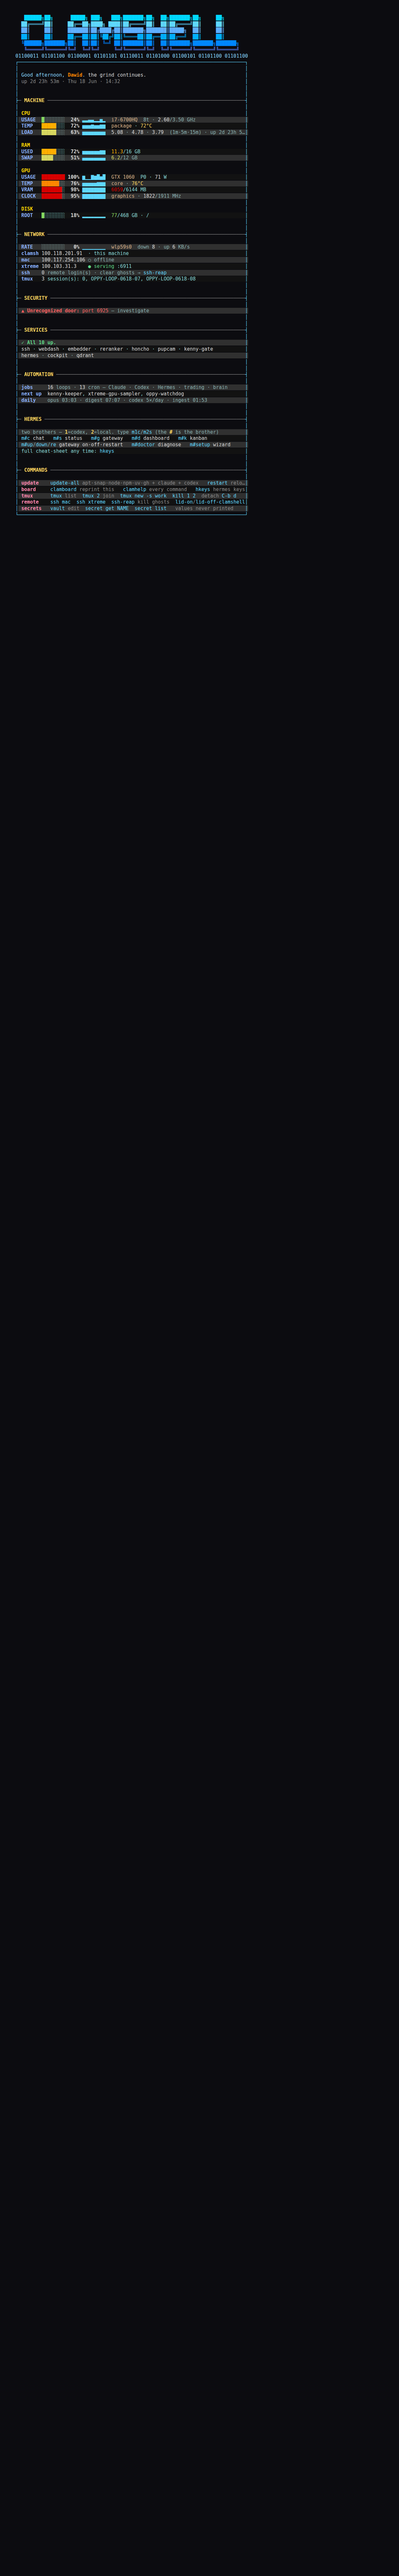
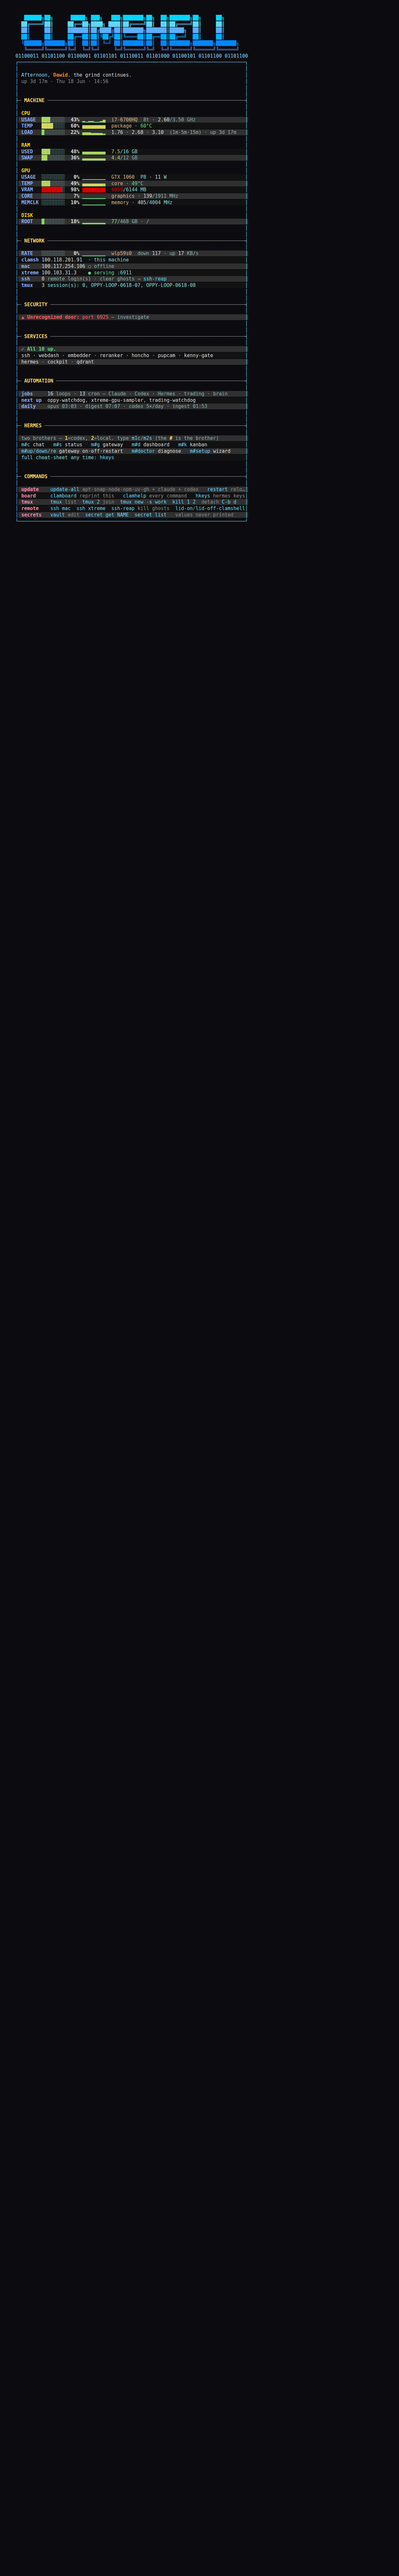
fix(board): color-reactive sparklines, restore MEMCLK, live CPU freq; strip OpenClaw from public docs
- Sparklines now colour each cell by its value (green→red), matching the gauge bars
  (e.g. VRAM 98% = red spark, TEMP = yellow). 'color reactive like the rest'.
- GPU group: restored MEMCLK (memory MHz) + renamed CLOCK→CORE; each clock has its own graph.
- CPU freq reads the fastest core live (/proc/cpuinfo, max) so it shows turbo under load
  instead of an averaged value pinned at base.
- Kept 'restart' in COMMANDS (reverted an incorrect removal).
- Public installer docs: removed OpenClaw (private/deleted internal tool); tests now assert
  it stays absent. 33/33 green.

Claude-Session: https://claude.ai/code/session_01XuLf9YjjGQLM4QD5J1HNDh

Changed region(s): [[0.0306, 0.0312, 0.6435, 0.2188]]

diff --git a/tests/test_agent_skill_artifact.py b/tests/test_agent_skill_artifact.py
@@ -26,7 +26,6 @@ class AgentSkillArtifactTests(unittest.TestCase):
             "custom commands",
             "default-deny",
             "Hermes",
-            "OpenClaw",
             "wb ports snapshot",
             "Run ./install.sh",
             "Run wb setup",
@@ -35,6 +34,8 @@ class AgentSkillArtifactTests(unittest.TestCase):
             "PYTHONDONTWRITEBYTECODE=1 python3 -m unittest discover -s tests -v",
         ):
             self.assertIn(required, skill)
+        # OpenClaw is a private/deleted internal tool — it must NOT ship in the public skill.
+        self.assertNotIn("OpenClaw", skill)
         self.assertIsNone(re.search(r"\b(claw" + r"ski|Da" + r"wid|192\.168\.|/home/claw" + r"ski)\b", skill))
 
 

diff --git a/tests/test_welcome_board_machine.py b/tests/test_welcome_board_machine.py
@@ -116,7 +116,7 @@ class MachineSectionTests(unittest.TestCase):
         # Each metric row carries an 8-cell █░ gauge bar followed by a percent.
         import re as _re
         bar_re = _re.compile(r"[█░]{8}\s+\d+%")
-        for label in ("USAGE", "TEMP", "LOAD", "USED", "SWAP", "VRAM", "CLOCK", "ROOT"):
+        for label in ("USAGE", "TEMP", "LOAD", "USED", "SWAP", "VRAM", "CORE", "MEMCLK", "ROOT"):
             # Rows look like:  │ LABEL  ████░░░░  NN%  <spark>  detail
             label_line = next(
                 (l for l in rendered.splitlines() if re.search(r"│ " + label + r"\b", l)),

diff --git a/tests/test_agent_prompt_docs.py b/tests/test_agent_prompt_docs.py
@@ -22,7 +22,8 @@ class AgentPromptDocsTests(unittest.TestCase):
         self.assertIn("custom commands", prompt)
         self.assertIn("default-deny", prompt)
         self.assertIn("Hermes", prompt)
-        self.assertIn("OpenClaw", prompt)
+        # OpenClaw is a private/deleted internal tool — must NOT appear in the public install prompt.
+        self.assertNotIn("OpenClaw", prompt)
         self.assertIn("wb ports snapshot", prompt)
         self.assertIn("wb setup", prompt)
         self.assertIn("render preview", prompt)

diff --git a/skills/welcome-board-installer/SKILL.md b/skills/welcome-board-installer/SKILL.md
@@ -1,6 +1,6 @@
 ---
 name: welcome-board-installer
-description: Install, customize, verify, or troubleshoot the Clamshell Welcome Board terminal startup project from a cloned repository. Use when a user asks an AI agent to install the welcome board, configure display name/banner/theme/sections, tmux reminders, custom commands, Hermes/OpenClaw personalization, port baselines, preview the render, run wb/welcomeboard commands, verify Linux/macOS readiness, or inspect the read-only port scan/explain/plan/snapshot helpers.
+description: Install, customize, verify, or troubleshoot the Clamshell Welcome Board terminal startup project from a cloned repository. Use when a user asks an AI agent to install the welcome board, configure display name/banner/theme/sections, tmux reminders, custom commands, Hermes personalization, port baselines, preview the render, run wb/welcomeboard commands, verify Linux/macOS readiness, or inspect the read-only port scan/explain/plan/snapshot helpers.
 ---
 
 # Welcome Board Installer
@@ -8,19 +8,18 @@ description: Install, customize, verify, or troubleshoot the Clamshell Welcome B
 ## Workflow
 
 1. Read README.md, docs/PORT_SECURITY_MODEL.md, docs/SECTION_SDK.md, and docs/LLM_EXTENSION_GUIDE.md before changing anything.
-2. Ask the user for display name, banner text, preferred theme, enabled sections, tmux workflow, custom commands, service ports, Hermes usage, OpenClaw usage, whether to create a reviewed port baseline, and whether they want a separate future default-deny firewall plan.
+2. Ask the user for display name, banner text, preferred theme, the rendered sections they should expect, tmux workflow, custom commands, service ports, Hermes usage, whether to create a reviewed port baseline, and whether they want a separate future default-deny firewall plan.
 3. Show the user what files may change before running install or setup.
 4. Run ./install.sh.
 5. Run wb setup and answer with the user's chosen values.
 6. If the user gave custom commands, write a user-local custom command file using `LABEL|command|hint` rows and configure `WB_CUSTOM_COMMANDS_FILE`.
 7. If the user gave service ports, configure `WB_SERVICE_PORTS` with `name:port` pairs.
 8. If the user uses Hermes, configure a label and preserve their command family, for example `m1 m1c m1s m1g m1up m1down m1re` and `m2 m2c m2s m2g m2up m2down m2re`.
-9. If the user uses OpenClaw, ask for its path and commands before adding any OpenClaw row.
-10. Run wb help, wb theme, and wb sections.
-11. Run wb doctor.
-12. Run `wb ports explain`. Ask before running `wb ports snapshot`; it writes only the reviewed drift baseline.
-13. Render a preview and check that text stays inside the frame.
-14. Run verification:
+9. Run wb help, wb theme, and wb sections.
+10. Run wb doctor.
+11. Run `wb ports explain`. Ask before running `wb ports snapshot`; it writes only the reviewed drift baseline.
+12. Render a preview and check that text stays inside the frame.
+13. Run verification:
 
 ```bash
 bash -n welcome-board.sh bin/wb bin/welcomeboard install.sh

diff --git a/README.md b/README.md
@@ -20,12 +20,12 @@ One framed board, gold section titles on cyan dividers, zebra-striped rows:
 
 | Section | What it tells you, at a glance |
 |---|---|
-| **MACHINE** | CPU / GPU / VRAM / RAM / SWAP / DISK / LOAD gauges with live temps & clocks (NVIDIA when present). |
-| **NETWORK** | Tailscale peers (real probes — no fake "online"), `ssh` remote-login count, live `tmux` sessions. |
-| **SECURITY** | Curated alerts only — unrecognized open ports, drift from a saved baseline. No raw socket dumps. |
+| **MACHINE** | Segregated CPU, RAM, GPU, and DISK readings with live history graphs. |
+| **NETWORK** | Throughput graph plus connectivity status. |
+| **SECURITY** | Exposed-port warning based on the reviewed baseline. |
 | **SERVICES** | Your watched ports as up/down, by friendly name. |
 | **AUTOMATION** | Your own scheduled jobs — user `systemd` timers + cron (system jobs excluded). |
-| **HERMES** | An example agent-command cheat-sheet (`m1`/`m2` lanes) — customize or drop it. |
+| **HERMES** | Agent-command cheat-sheet for the Hermes section. |
 | **COMMANDS** | Copy-paste operator commands: tmux, updates, ssh hygiene, secrets. |
 
 **Design rules:** dark-mode, glance-first, and a hard **symmetry law** — every framed line is exactly the same display width (verified in CI by `tests/check_symmetry.py`). Only width-1 glyphs are used inside the frame, so the right edge never drifts on any terminal.
@@ -43,7 +43,7 @@ https://github.com/psychofanPLAYS/Clamshell-Welcome-Board
 Do this safely:
 1. Clone the repo into a normal projects folder and read README.md + examples/config.example.
 2. Ask me for: display name, banner text, service ports to watch (name:port), network peers,
-   and whether I want the HERMES agent-shortcuts section.
+   and whether I use Hermes agent shortcuts.
 3. Run ./install.sh, then write my answers into ~/.config/welcome-board/config.
 4. Show me which shell-startup lines will be added BEFORE editing ~/.bashrc.
 5. Run `wb doctor`, then `wb ports explain` (read-only). Ask before `wb ports snapshot`.

diff --git a/prompts/install-with-agent.md b/prompts/install-with-agent.md
@@ -15,12 +15,11 @@ Do this:
    - display name
    - banner text
    - color theme: cyan-dark, amber-terminal, green-phosphor, light-paper, or mono-safe
-   - enabled board sections; default should be: machine services identity security health hermes tmux commands notes
+   - rendered board sections; the board currently shows MACHINE, NETWORK, SECURITY, SERVICES, AUTOMATION, HERMES, and COMMANDS
    - tmux workflow and any custom tmux commands I use
    - custom commands or path shortcuts I want visible at a glance
    - service ports I intentionally run and want watched, as name:port pairs
    - whether I use Hermes; if yes, ask for my master command aliases such as m1, m1c, m1s, m1g, m1up, m1down, m1re, m2, m2c, m2s, m2g, m2up, m2down, and m2re
-   - whether I have OpenClaw; if yes, ask for its path and what commands should be shown
    - whether I want to create a reviewed port baseline with wb ports snapshot
    - whether I want a separate future default-deny firewall plan
 4. Show me exactly which files will change before editing shell startup files.
